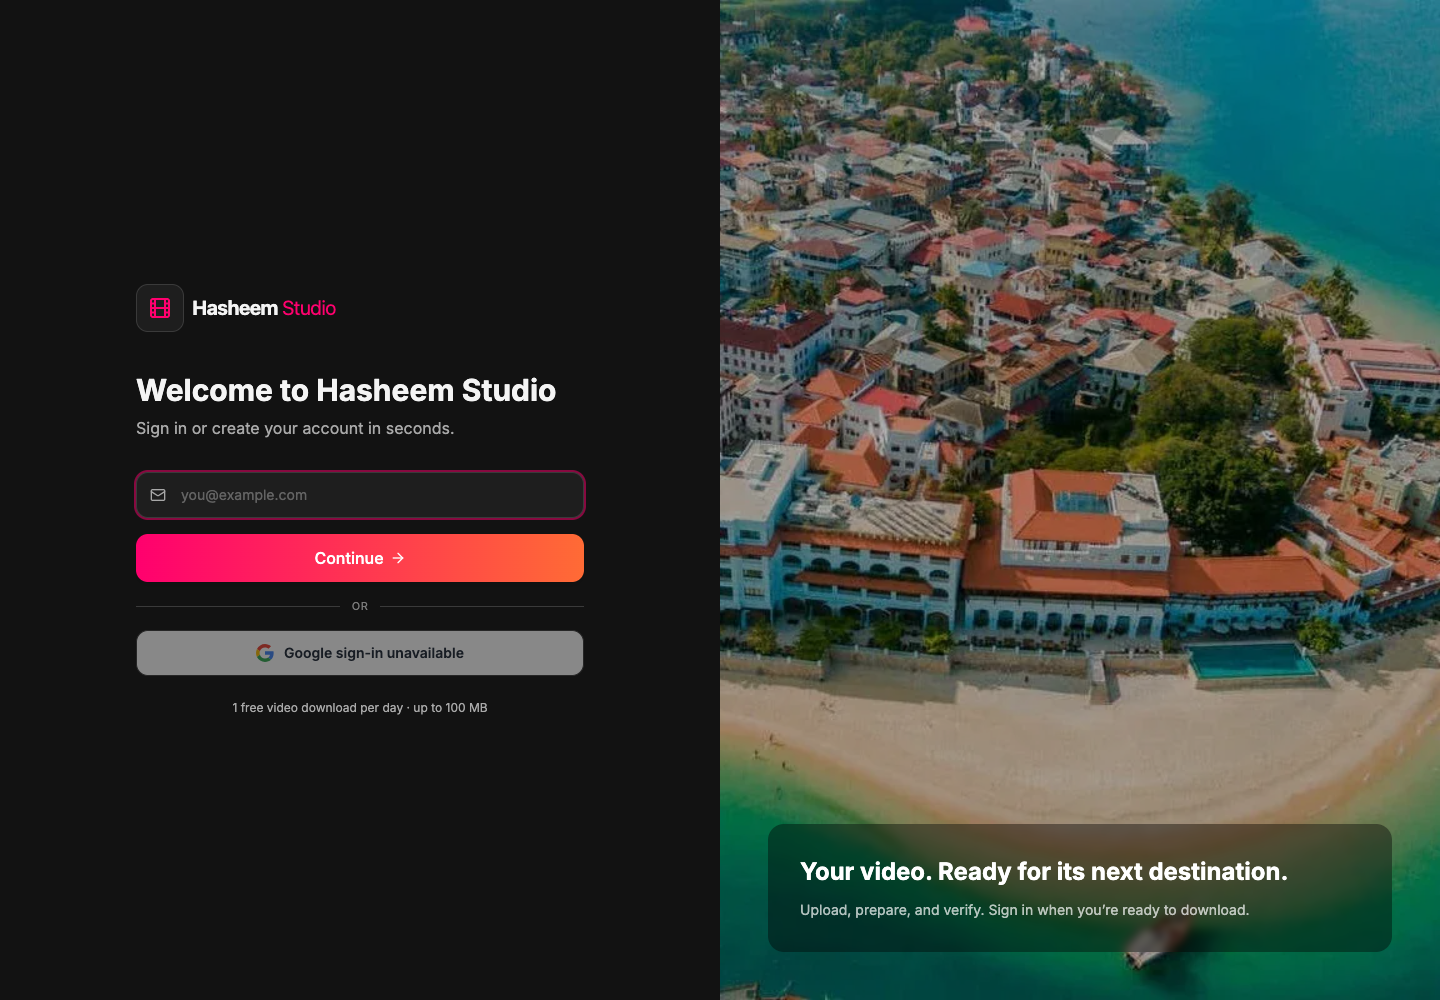
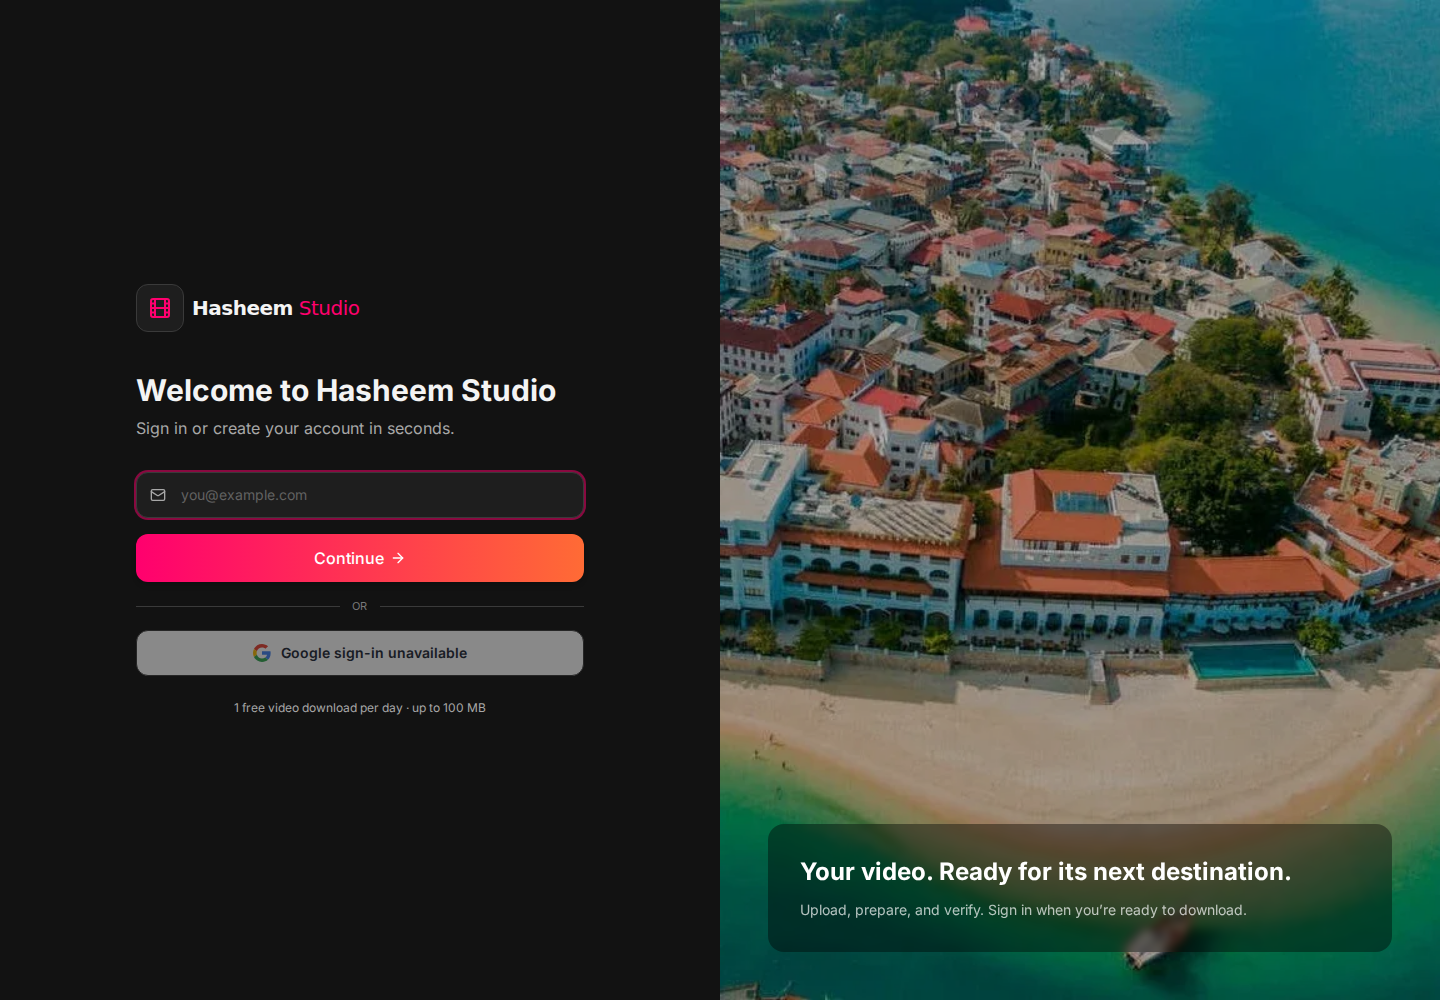
verify live guest download gate rollout

diff --git a/docs/STATUS.md b/docs/STATUS.md
@@ -1159,3 +1159,44 @@ with no evidence behind it.
 - Copy-ready deployment instructions: `docs/VPS-GUEST-DOWNLOAD-HANDOFF.md`. This includes coordinated
   API/frontend rollout, exact migration target discovery, trusted-proxy configuration, public upload
   safeguards, recovery redirect/OTP setup, remaining payments and retention checks, and evidence.
+
+# VPS guest-download rollout — 2026-09-20
+
+- [VERIFIED-LIVE] Fast-forwarded the VPS checkout to the exact pushed `origin/main` SHA
+  `11d726037767d47ba7dfa5fa6d86bff9438c74ba`; local `HEAD` and `origin/main` matched before
+  deployment. The working tree was clean at the start.
+- [VERIFIED-LIVE] Confirmed the target database marker is `hasheemstudio`, reached through the
+  dedicated project's Supavisor session port (`127.0.0.1:55432`), not another Supabase project.
+  Applied `0013_guest_processing_download_grants.sql` and `0014_progressive_auth_email_lookup.sql`
+  with the repository runner against the project-scoped VPS database. Live verification returned
+  all 14 migrations, zero pending versions, zero checksum drift, schema digest `56d2bd5253581c1d`,
+  all expected tables and RLS enabled.
+- [VERIFIED-LIVE] Built and replaced only `hasheemstudio-api` and `hasheemstudio-web` together
+  from SHA `11d7260`; the worker, Supabase services, Coolify and unrelated containers were not
+  restarted. API and web containers became healthy. Production web build and full workspace
+  typecheck passed. The web build retains a non-failing bundle-size warning (main JS about 680 KB).
+- [VERIFIED-LIVE] Public boundary checks passed after rollout: `https://hasheemstudio.com/`
+  returned HTTP 200; `https://api.hasheemstudio.com/health/live` and `/health/ready` returned
+  `{"status":"ok"}`; Supabase Auth health returned a real GoTrue response over HTTPS.
+- [VERIFIED-LIVE] `TEST_API_URL=https://api.hasheemstudio.com pnpm test:guest-download` passed all
+  11 live checks: 100 MB admission, guest resumable upload, worker processing, idempotent retries,
+  anonymous/cross-account denial, processing before download gating, atomic one-video concurrency,
+  repeat-download behaviour, locked-output storage protection, UTC reset, expired-output denial and
+  progressive email lookup. Disposable fixtures/users/files were cleaned by the test.
+- [VERIFIED-LIVE] `TEST_WEB_URL=https://hasheemstudio.com pnpm test:guest-browser` passed the real
+  Chromium journey: guest upload/process, progressive login, return to the same result, download,
+  logout, signup layout and invalid-auth-link handling. This includes the mobile viewport path; the
+  regenerated screenshots are retained under `docs/evidence/guest-download-gate/`.
+- [BLOCKED — OWNER INPUT] Live Supabase Auth settings report `external.google=false` and
+  `external.email=true`, with email confirmation required. Email configuration is present, but
+  physical inbox receipt still needs an owner-approved inbox check. Google OAuth cannot be enabled
+  without an approved Hasheem Google OAuth client ID/secret and exact production redirect setup;
+  no credentials were invented or borrowed from another project.
+- [BLOCKED — OWNER INPUT] Paid checkout remains intentionally disabled. No approved processor,
+  prices, credentials, webhook secret or legal billing terms exist in the repo or protected project
+  environment. The API correctly reports `checkoutAvailable:false` at the free daily limit. No
+  payment-success path was fabricated. Once the owner supplies the processor/pricing, implement
+  verified idempotent webhooks and entitlement reconciliation before enabling paid downloads.
+- [NOT DONE] Independent inbox receipt, Google consent/callback, paid checkout and final owner
+  visual approval remain open. This rollout proves the VPS guest-download release, not those
+  external-account gates.
